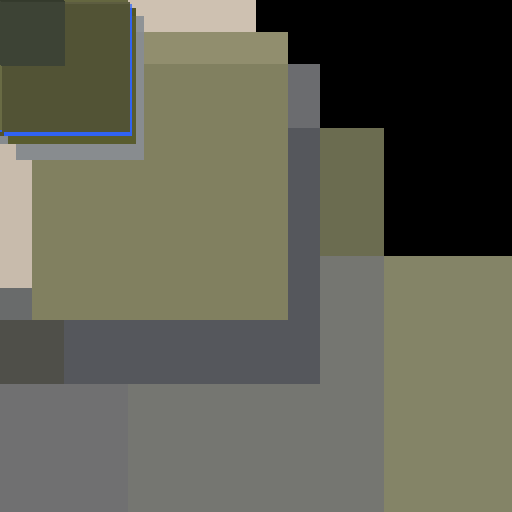
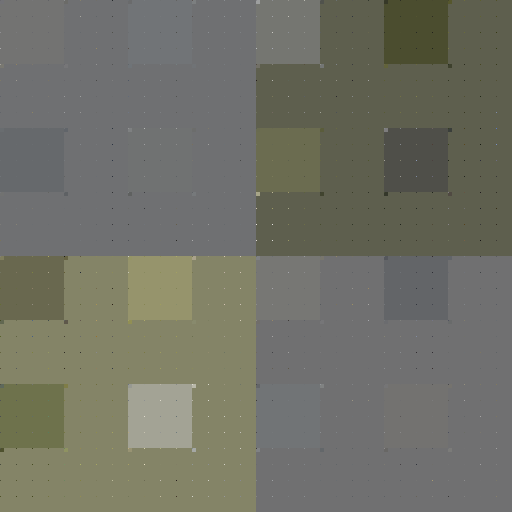
changes to Linear Quadtree

diff --git a/Imagetree_lib.cpp b/Imagetree_lib.cpp
@@ -358,73 +358,96 @@ void construct_RMSE_LinearQuadtree(vector<PixelDepthQuad *> &pixVectors,
                                    Mat *imOriginal) {
   // get the number of levels
   int DEPTH = calculate_max_depth_of_quadtree(imOriginal);
+  vector<Mat> vec_mat;
 
   // calculate the average pixel value
   // Add the first PixelDepthQuad for representing the entire image
   auto pix_whole = calculate_average_pixel(imOriginal);
   // storing the first value of the pixVector storing the average pixel of the
   // entire value
-  PixelDepthQuad p0{Pixel{pix_whole[0], pix_whole[1], pix_whole[2], 0, 0}, 0, 0,
-                    0, 0};
-  pixVectors.push_back(&p0);
+  PixelDepthQuad root{Pixel{pix_whole[0], pix_whole[1], pix_whole[2], 0, 0}, 0,
+                      0, 0, 0};
+  pixVectors.push_back(&root);
   // calculate the RMSE
   auto rmse = calculate_average_pixel_RMSE(imOriginal, pixVectors[0]->P);
   cout << rmse << " is the rmse error" << endl;
   // if the RMSE is greater than the required keep subdividing
   int WIDTH = imOriginal->cols;
   int HEIGHT = imOriginal->rows;
-  int HWIDTH = imOriginal->cols / 2;
-  int HHEIGHT = imOriginal->rows / 2;
-  int depth = 1;
-  vector<Mat> vec_mat;
+  // int HWIDTH = imOriginal->cols / 2;
+  // int HHEIGHT = imOriginal->rows / 2;
+
+  // temporarily storing the image quadrants until I come up with a differrent
+  // logic
   vec_mat.push_back(*imOriginal);
+
+  // storing the matrix index: here, it is set to one becasue an object is
+  // already pushed.
   int matrix_index = 0;
-  while (rmse > 0.01) {
+  int rex = 20;
+//  while ((rmse > 0.01) && (rex--)) {
+    while ((rmse > 0.01) ) {
+    auto my_current_index = matrix_index;
+    // The current quadrant that is being inspected is given by the matrix index
+    auto HHEIGHT = vec_mat[matrix_index].cols/2;
+    auto HWIDTH = vec_mat[matrix_index].rows/2;
+    auto depth  =  (WIDTH/HWIDTH) - 1 ;
     // divide into four quadrants, calculate the average pixel and subdivide
     // further if necessary.
     vector<Vec3b> avgPixQ(4);
+    cout << "Matrix index: " << matrix_index << " pixVector Size"
+         << pixVectors.size() << endl;
+    cout << "Half width: " << HWIDTH << " Half Height" << HHEIGHT << endl;
 
     Rect NW(0, 0, HWIDTH, HHEIGHT);
     Rect NE(0, HWIDTH, HWIDTH, HHEIGHT);
     Rect SE(HHEIGHT, 0, HWIDTH, HHEIGHT);
     Rect SW(HHEIGHT, HWIDTH, HWIDTH, HHEIGHT);
     Mat quadImages[4];
-    auto my_current_index = matrix_index;
     quadImages[0] = Mat(vec_mat[matrix_index], NW);
     quadImages[1] = Mat(vec_mat[matrix_index], NE);
     quadImages[2] = Mat(vec_mat[matrix_index], SE);
-    quadImages[3] = Mat(vec_mat[matrix_index++], SW);
+    quadImages[3] = Mat(vec_mat[matrix_index], SW);
 
-    int x = 0, y = 0;
     rmse = 0;
     PixelDepthQuad *temp;
     for (int i = 0; i < 4; ++i) {
+      int x, y;
+      
+      // Choosing the quadrant
+      switch (i) {
+        case 0: x = 0; y = 1; break;
+        case 1: x = 1; y = 1; break;
+        case 2: x = 1; y = 0; break;
+        case 3: x = 0; y = 0; break;
+      }
       vec_mat.push_back(quadImages[i]);
       avgPixQ[i] = calculate_average_pixel(&quadImages[i]);
+
       // add the four quadrants to the pixvector table
-      temp = new PixelDepthQuad{Pixel{avgPixQ[i][0], avgPixQ[i][1],
-                                      avgPixQ[i][2], x * HWIDTH, y * HHEIGHT},
-                                depth, i, 0, pixVectors[my_current_index]};
+      PixelDepthQuad *my_parent = pixVectors[my_current_index];
+      // ,   
+      temp = new PixelDepthQuad{
+          Pixel{avgPixQ[i][0], avgPixQ[i][1], avgPixQ[i][2],
+              my_parent->P.x + x * HWIDTH, my_parent->P.y + y * HHEIGHT},
+          depth, i, 0, pixVectors[my_current_index]};
       pixVectors.push_back(temp);
       int ind = pixVectors.size() - 1;
       rmse += calculate_average_pixel_RMSE_vec3b(&quadImages[i], avgPixQ[i]);
-      cout << "[" << pixVectors[ind]->P.B << "," << pixVectors[ind]->P.G << ","
-           << pixVectors[ind]->P.R << "]\tQ:" << pixVectors[ind]->quad
+      cout << pixVectors[i]->P;
+      cout << "\tQ:" << pixVectors[ind]->quad
            << "\tI:" << pixVectors[ind]->depth << "\tRMSE: " << rmse
            << "\t Parent: " << pixVectors[i]->parentPixelDepth
            << "\tMe:" << pixVectors[i] << endl;
-      if (i % 2)
-        ++y;
-      else
-        ++x;
     }
-    HWIDTH /= 2;
-    HHEIGHT /= 2;
+    // HWIDTH /= 2;
+    // HHEIGHT /= 2;
 
-    depth = 1 + matrix_index / 4;
-    cout << "depth: " << depth << " rmse: " << rmse
-         << " vector size: " << vec_mat.size() << "\n\n"
+    // ++depth;
+    cout << "half height: " << HHEIGHT << " depth: " << depth
+         << " rmse: " << rmse << " vector size: " << vec_mat.size() << "\n\n"
          << endl;
+    ++matrix_index;
   }
 }
 
@@ -441,23 +464,34 @@ int calculate_max_depth_of_quadtree(Mat *img) {
 
 void reconstructImageFromTree(vector<PixelDepthQuad *> &pixVector,
                               Mat *reconImage) {
-  for (int i = 1; i < pixVector.size(); ++i) {
+  // for (int i = 30; i >= 1; --i) {
+    int i;
+  for (i = 1; i < pixVector.size(); ++i) {
     // if (pixVector[i]->isLeaf) {
     int factor = pow(2, pixVector[i]->depth);
     // #ifdef DEBUG
-    cout << "Factor: " << factor << " Depth: " << pixVector[i]->depth << endl;
+    // std::cout << "i: " << i << " Factor: " << factor
+    //           << " Depth: " << pixVector[i]->depth
+    //           << " Color: " << pixVector[i]->P;
+    // std::cout << " pixVector's x and y: (" << pixVector[i]->P.x << ","
+    //           << pixVector[i]->P.y << ")\n";
 
     // #endif
     for (int row = pixVector[i]->P.x;
-         row < pixVector[i]->P.x + (reconImage->rows / pow(2, pixVector[i]->depth));
+         row <
+         pixVector[i]->P.x + (reconImage->rows / pow(2, pixVector[i]->depth));
          ++row) {
       for (int col = pixVector[i]->P.y;
-           col < pixVector[i]->P.y + (reconImage->cols / pow(2, pixVector[i]->depth));
+           col <
+           pixVector[i]->P.y + (reconImage->cols / pow(2, pixVector[i]->depth));
            ++col) {
         reconImage->at<Vec3b>(row, col) =
             Vec3b(pixVector[i]->P.R, pixVector[i]->P.G, pixVector[i]->P.B);
+        // if(i==2)   cout<<reconImage->at<Vec3b>(row, col)<<"\n ";
       }
     }
     //}
+    // cv::imshow("Loop Image", *reconImage);
+    // waitKey(3);
   }
 }

diff --git a/main.cpp b/main.cpp
@@ -104,7 +104,8 @@ int main(int argc, char const *argv[]) {
 
   reconstructImageFromTree(pixVectors, &reconstrutedImage);
   imshow("Reconstructed Image", reconstrutedImage);
-  cout << "Root Mean Squared Error: "<<calculate_RMSE(&imOriginal,&reconstrutedImage)<<endl;
+  waitKey();
+  cout << "\nRoot Mean Squared Error: "<<calculate_RMSE(&imOriginal,&reconstrutedImage)<<endl;
   imwrite("Images/recostructed_img.png", reconstrutedImage);
   waitKey(1);
 

diff --git a/Imagetree.cpp b/Imagetree.cpp
@@ -214,3 +214,7 @@ void QuadLeaf::print_tree(vector<PixelDepthQuad*>& pixVector,
   int sizeV = pixVector.size();
   PixelDepthQuad* newParent = pixVector[sizeV - 1];
 }
+
+void operator<<(ostream &out, const Pixel  &P){
+ out<<"["<<P.R<<","<<P.G<<","<<P.B<<"], (x,y): ("<<P.x<<","<<P.y<<")";
+}

diff --git a/Imagetree.h b/Imagetree.h
@@ -45,7 +45,10 @@ class Pixel {
   int R;
   int G;
   int B;
+  
 };
+
+void operator<<(ostream &out, const Pixel  &P);
 
 struct PixelDepthQuad {
   Pixel P;
